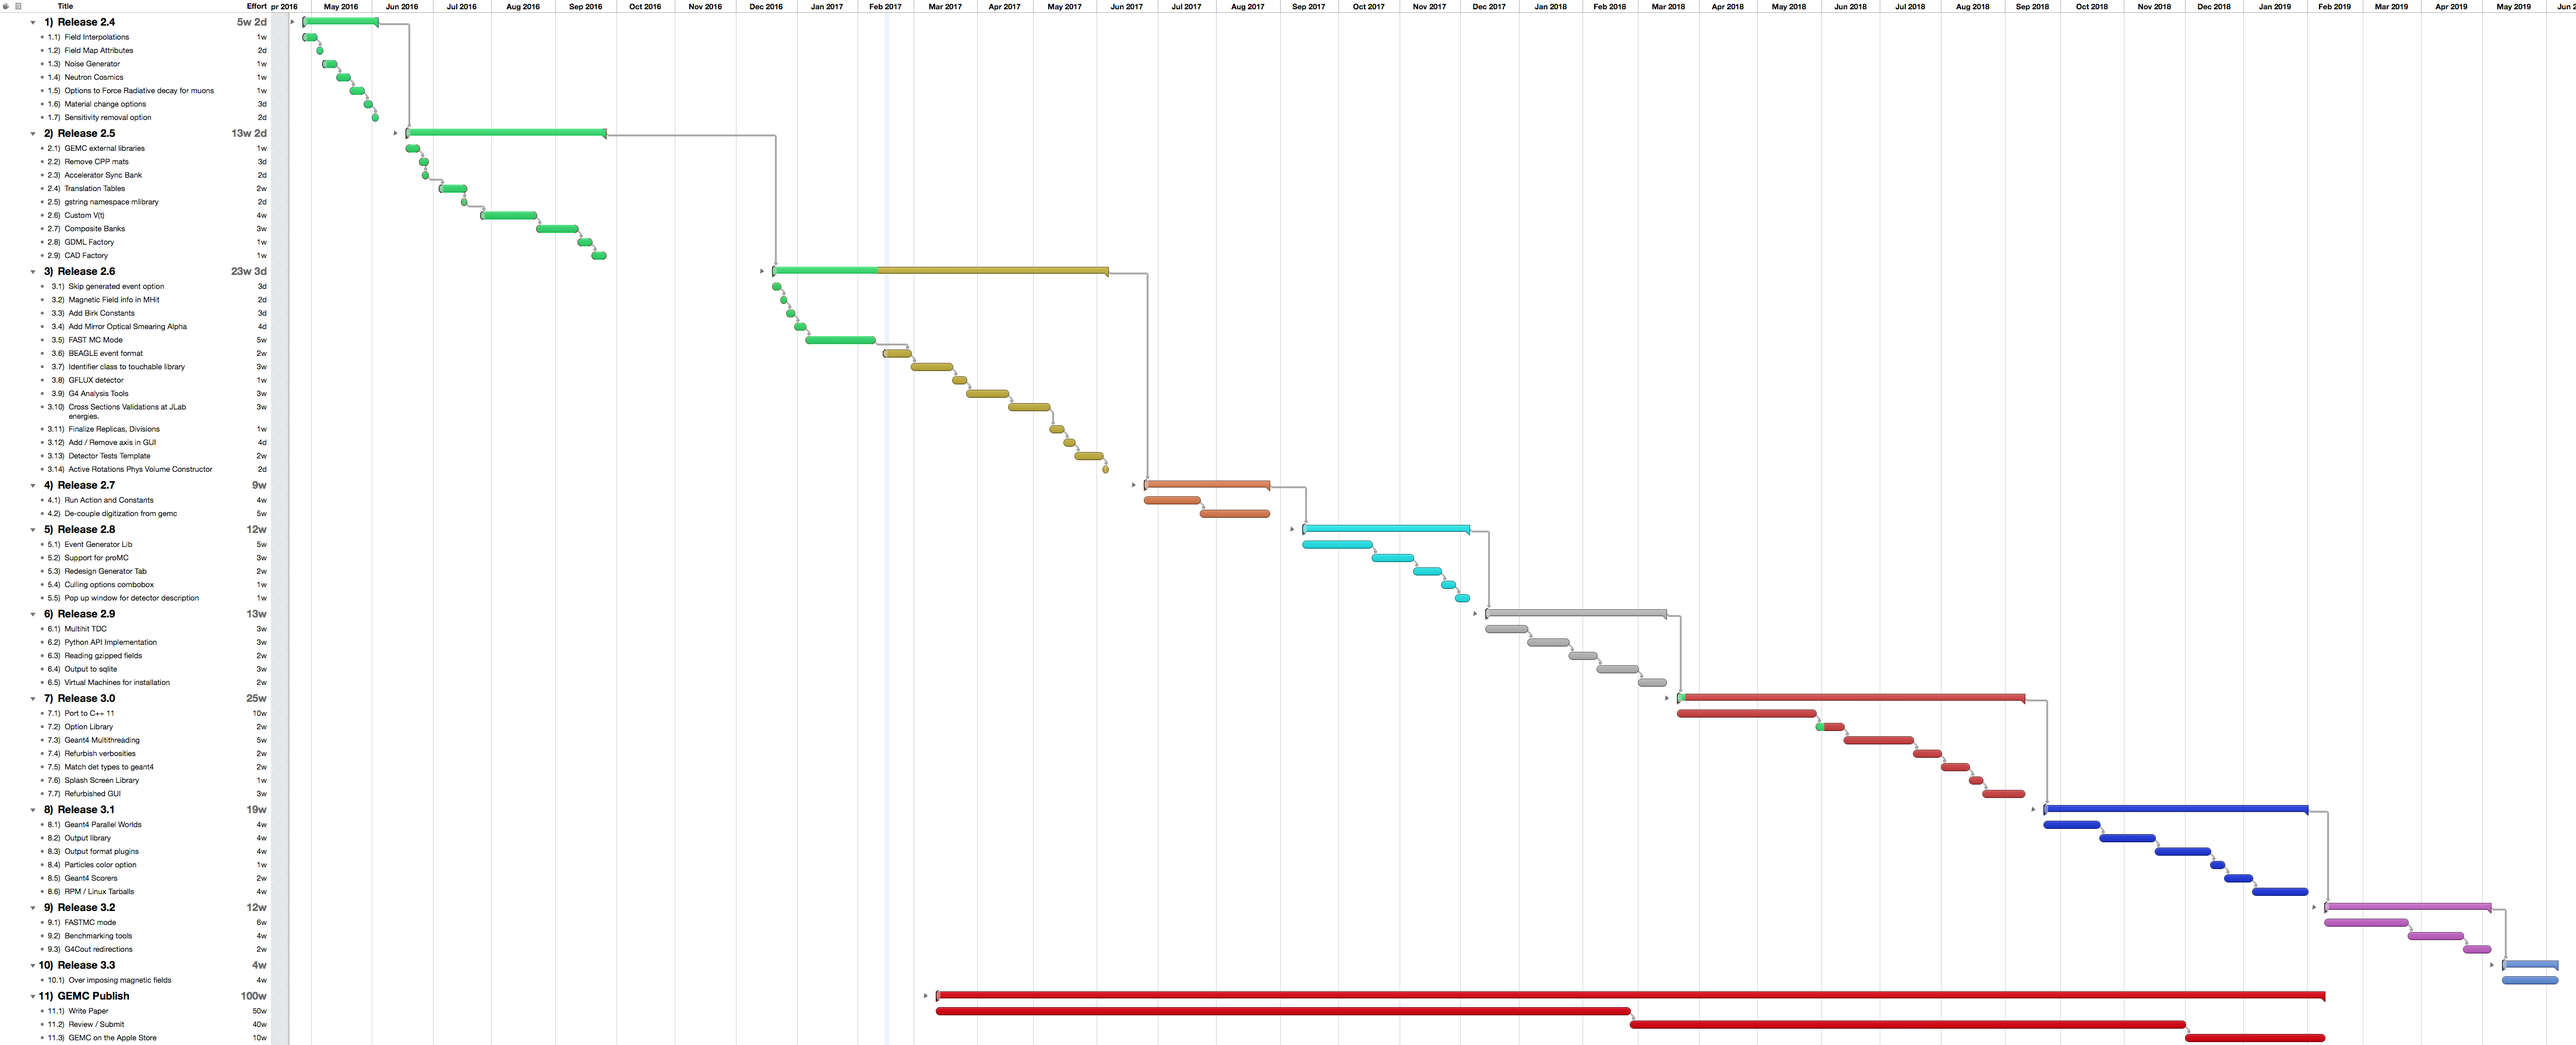
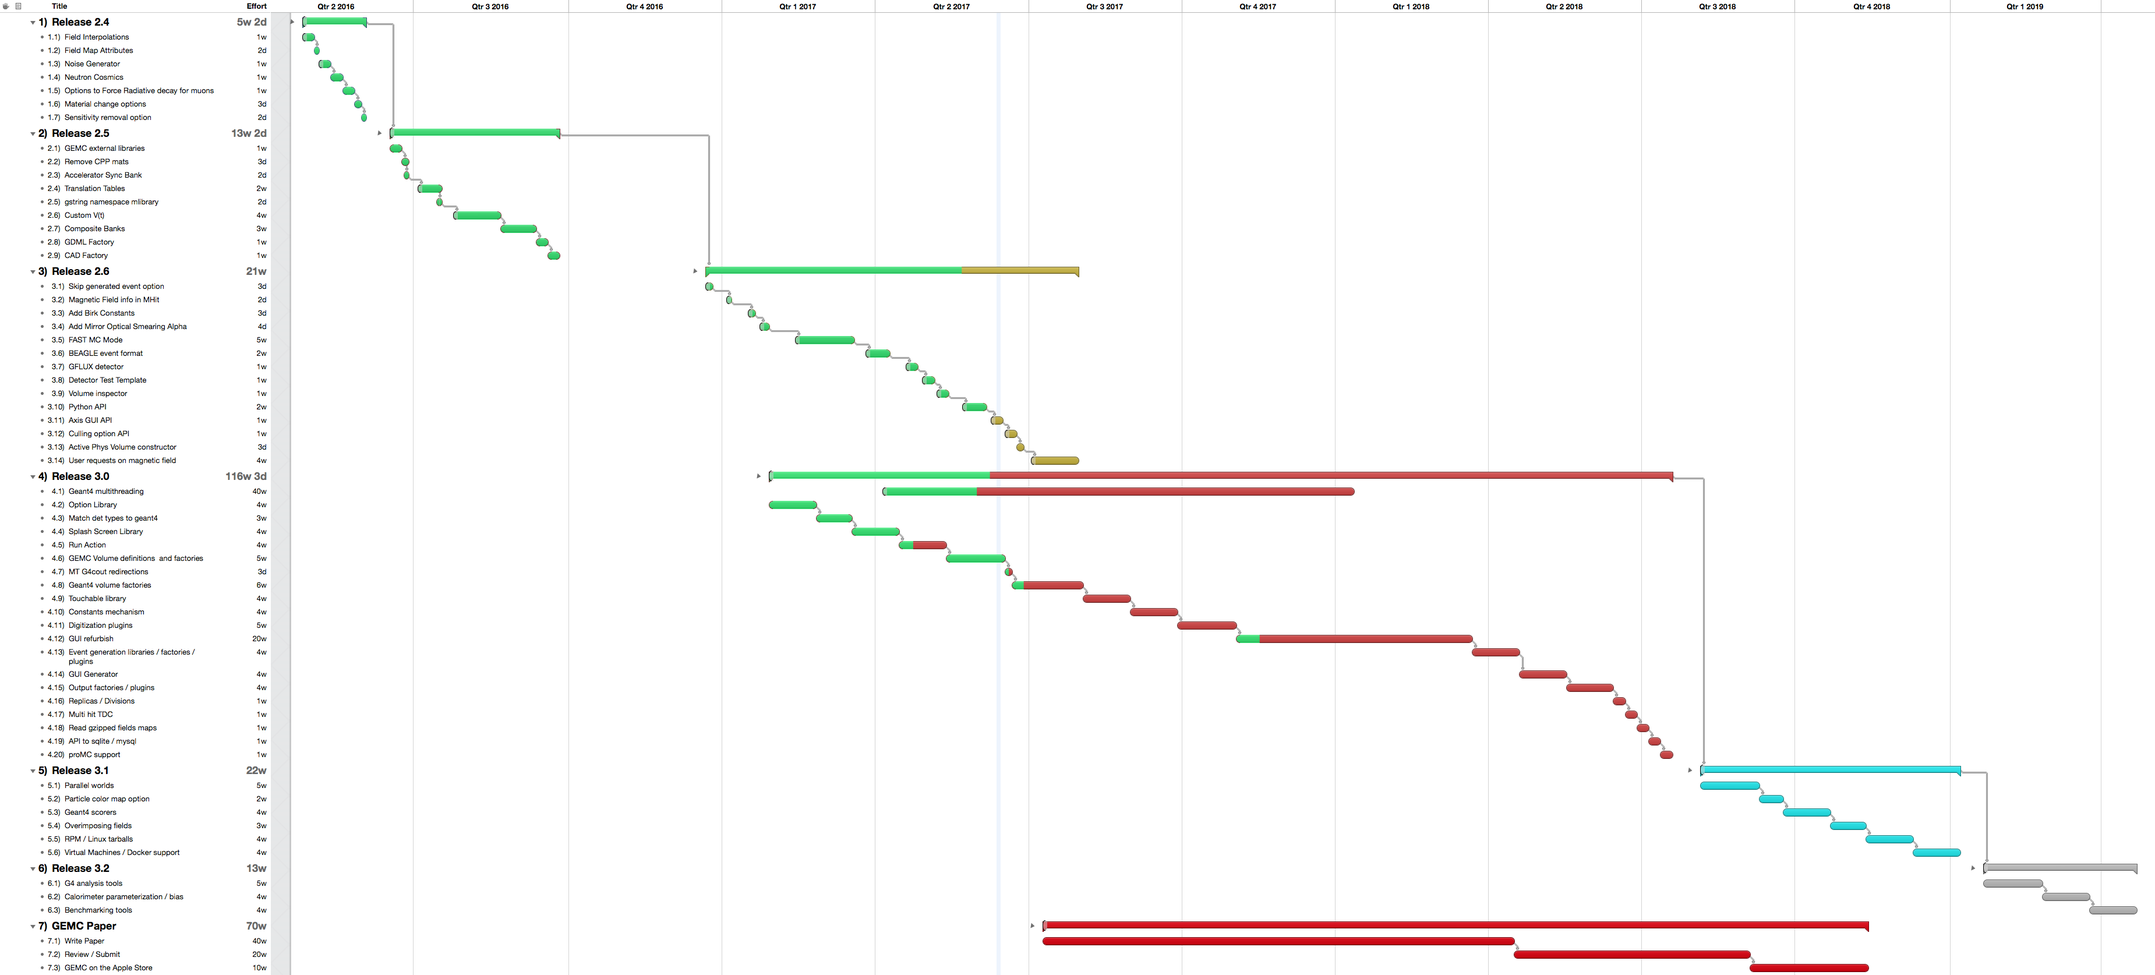
mods to roadmap

diff --git a/webPage/source/documentation/releases/roadmap.rst b/webPage/source/documentation/releases/roadmap.rst
@@ -15,24 +15,23 @@ GEMC Roadmap
 GEMC 2.4 - June 2016 ✅
 -----------------------
 
-- Using new geant4 10.2✅
+- Using new geant4 10.2 ✅
 
-- Magnetic Field interpolations✅
+- Magnetic Field interpolations ✅
 
-- Field map attributes✅
+- Field map attributes ✅
 
+- **Noise generator mechanism**: possibility to add custom noise/hot channels to detector response ✅
 
-- **Noise generator mechanism**: possibility to add custom noise/hot channels to detector response✅
+- Option: by giving a volume name, change its material to a new material ✅
 
-- Option: by giving a volume name, change its material to a new material✅
+- Option: by giving a material name, change all volume with that material to a material ✅
 
-- Option: by giving a material name, change all volume with that material to a material✅
+- Neutrons cosmic ray model ✅
 
-- Neutrons cosmic ray model✅
+- Option to force radiative decay of muons ✅
 
-- Option to force radiative decay of muons✅
-
-- Remove sensitivity option✅
+- Remove sensitivity option ✅
 
 
 
@@ -41,11 +40,11 @@ GEMC 2.5 - September 2016
 
 - Gemc external Libraries ✅
 
-- Remove more obsolete cpp materials.✅
+- Remove more obsolete cpp materials ✅
 
 - Accelerator Sync Bank ✅
 
-- **Translation tables mechanism**: from detector identifier to crate/slot/channel✅
+- **Translation tables mechanism**: from detector identifier to crate/slot/channel ✅
 
 - gstring namespace library ✅
 
@@ -56,7 +55,7 @@ GEMC 2.5 - September 2016
 
     - A user-defined **voltage** function produces a voltage value for a given asked time ✅
 
-- Output format to match the FADC composite banks of the JLab data acquisition group✅
+- Output format to match the FADC composite banks of the JLab data acquisition group ✅
 
 - GDML factory ✅
 
@@ -64,20 +63,20 @@ GEMC 2.5 - September 2016
 
 
 
-GEMC 2.6 - Jun 2017
+GEMC 2.6 - July 2017
 ---------------------
 
 - SKIPGEN option ✅
 
 - Magnetic field info in MHit ✅
 
-- Add Birk Constant✅
+- Add Birk Constant ✅
 
 - Add Mirror Optical Smearing Alpha ✅
 
 - Fast MC mode and track smearing ✅
 
-- Beagle event generator✅
+- Beagle event generator ✅
 
 - GFLUX hittype to record photons ✅
 
@@ -103,8 +102,8 @@ GEMC 2.6 - Jun 2017
 
 
 
-GEMC 3.0.beta1 - Dec 2017
--------------------------
+GEMC 3.0.beta1 - Dec 2017. 3.0 May 2018
+---------------------------------------
 
 - **Geant4 multithreading**
 
